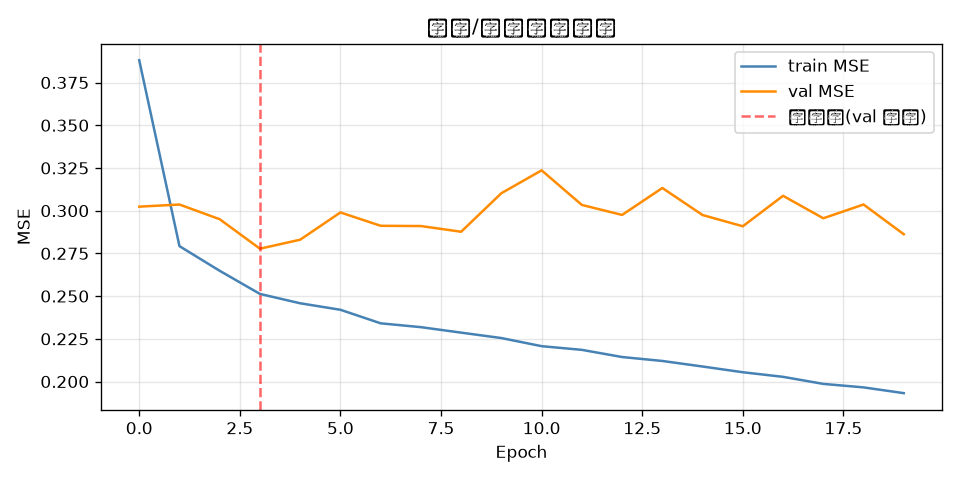
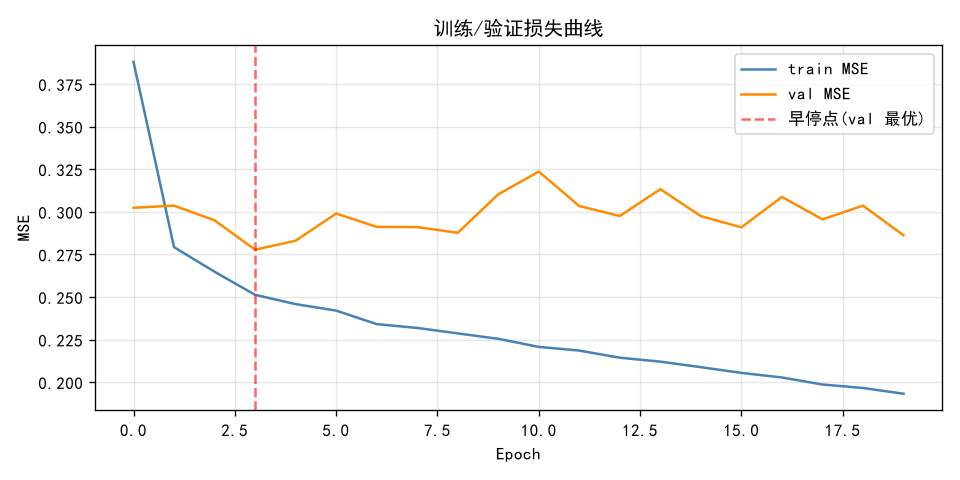
修复 loss 曲线中文乱码(SimHei)

diff --git a/实验_07_时序大模型预测/plot_loss_curve.py b/实验_07_时序大模型预测/plot_loss_curve.py
@@ -15,6 +15,8 @@ import json
 import matplotlib
 matplotlib.use("Agg")          # 无 GUI 环境直接出图
 import matplotlib.pyplot as plt
+plt.rcParams["font.sans-serif"] = ["SimHei", "Microsoft YaHei"]  # 中文支持
+plt.rcParams["axes.unicode_minus"] = False
 
 with open("checkpoints/history.json", encoding="utf-8") as f:
     history = json.load(f)
